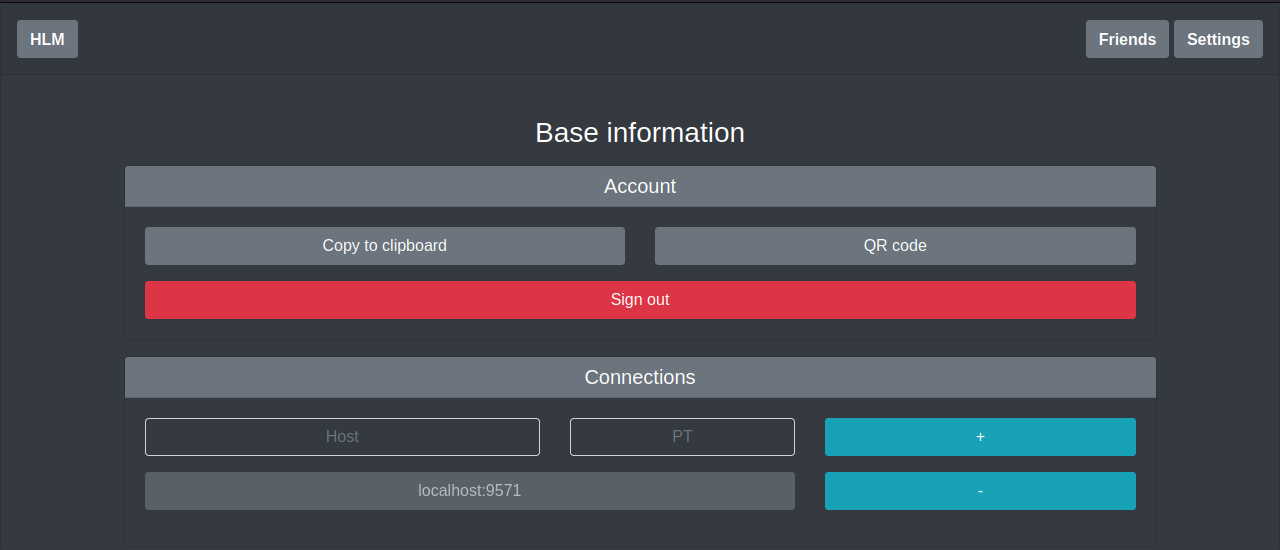
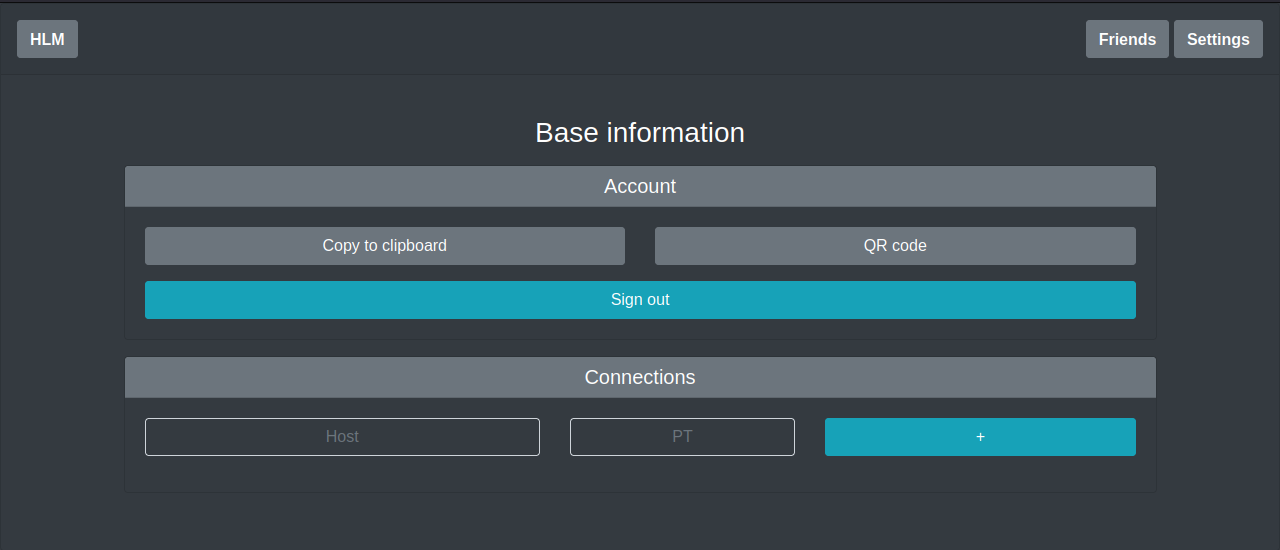
update

Changed region(s): [[0.0938, 0.4945, 0.9062, 0.5873], [0.0938, 0.8345, 0.9062, 0.9273]]

diff --git a/cmd/hlm/web/template/index.html b/cmd/hlm/web/template/index.html
@@ -21,8 +21,8 @@
                 <a href="/friends" class="btn btn-secondary button"><b>Friends</b></a>
                 <a href="/settings" class="btn btn-secondary button"><b>Settings</b></a>
                 {{else}}
-                <a href="/sign/in" class="btn btn-secondary button"><b>Sign in</b></a>
                 <a href="/sign/up" class="btn btn-secondary button"><b>Sign up</b></a>
+                <a href="/sign/in" class="btn btn-secondary button"><b>Sign in</b></a>
                 {{end}}
             </div>
         </div>

diff --git a/cmd/hlm/web/template/settings.html b/cmd/hlm/web/template/settings.html
@@ -30,7 +30,7 @@ Settings
                 </div>
             </div>
             <div>
-                <a href="/sign/out" class="btn btn-danger button w-100">Sign out</a>
+                <a href="/sign/out" class="btn btn-info button w-100">Sign out</a>
             </div>
         </div>
     </div>

diff --git a/cmd/hlm/web/web.go b/cmd/hlm/web/web.go
@@ -3,18 +3,27 @@ package web
 import (
 	"embed"
 	"io/fs"
+	"os"
+)
+
+const (
+	cUsedEmbedFS = true
 )
 
 var (
 	//go:embed static
-	embededStatic embed.FS
+	gEmbededStatic embed.FS
 
 	//go:embed template
-	embededTemplate embed.FS
+	gEmbededTemplate embed.FS
 )
 
 func GetStaticPath() fs.FS {
-	fsys, err := fs.Sub(embededStatic, "static")
+	const staticPath = "static"
+	if !cUsedEmbedFS {
+		return os.DirFS("./web/" + staticPath)
+	}
+	fsys, err := fs.Sub(gEmbededStatic, staticPath)
 	if err != nil {
 		panic(err)
 	}
@@ -22,7 +31,11 @@ func GetStaticPath() fs.FS {
 }
 
 func GetTemplatePath() fs.FS {
-	fsys, err := fs.Sub(embededTemplate, "template")
+	const templatePath = "template"
+	if !cUsedEmbedFS {
+		return os.DirFS("./web/" + templatePath)
+	}
+	fsys, err := fs.Sub(gEmbededTemplate, templatePath)
 	if err != nil {
 		panic(err)
 	}

diff --git a/cmd/hlm/internal/app/app.go b/cmd/hlm/internal/app/app.go
@@ -18,6 +18,10 @@ import (
 	"golang.org/x/net/websocket"
 )
 
+const (
+	initStart = time.Second * 3
+)
+
 var (
 	_ types.IApp = &sApp{}
 )
@@ -69,7 +73,7 @@ func (app *sApp) Run() error {
 	case err := <-res:
 		app.Close()
 		return err
-	case <-time.After(time.Second * 3):
+	case <-time.After(initStart):
 		return nil
 	}
 }

diff --git a/cmd/hlm/internal/handler/signin.go b/cmd/hlm/internal/handler/signin.go
@@ -92,7 +92,6 @@ func SignInPage(wDB database.IWrapperDB, client hls_client.IClient, stg storage.
 			"signin.html",
 		)
 		if err != nil {
-			fmt.Println(err)
 			panic("can't load hmtl files")
 		}
 		t.Execute(w, newTemplateData(db))

diff --git a/cmd/hls/internal/app/app.go b/cmd/hls/internal/app/app.go
@@ -52,6 +52,7 @@ func (app *sApp) Run() error {
 		if httpAddress == "" {
 			return
 		}
+
 		err := app.fServiceHTTP.ListenAndServe()
 		if err != nil && !errors.Is(err, http.ErrServerClosed) {
 			res <- err

diff --git a/cmd/hls/README.md b/cmd/hls/README.md
@@ -19,6 +19,7 @@ interacting with the network. HLS is based on the fifth^ stage of anonymity and 
 ## Config structure
 
 ```
+"logging"      Enable loggins in/out actions in the network
 "network"      A network key created to encapsulate connections
 "address.tcp"  Connection address for anonymity network, may be void
 "address.http" Connection address for API functions
@@ -29,6 +30,7 @@ interacting with the network. HLS is based on the fifth^ stage of anonymity and 
 
 ```json
 {
+	"logging": true,
 	"network": "hls-network-key",
 	"address": {
 		"tcp": "localhost:9571",
